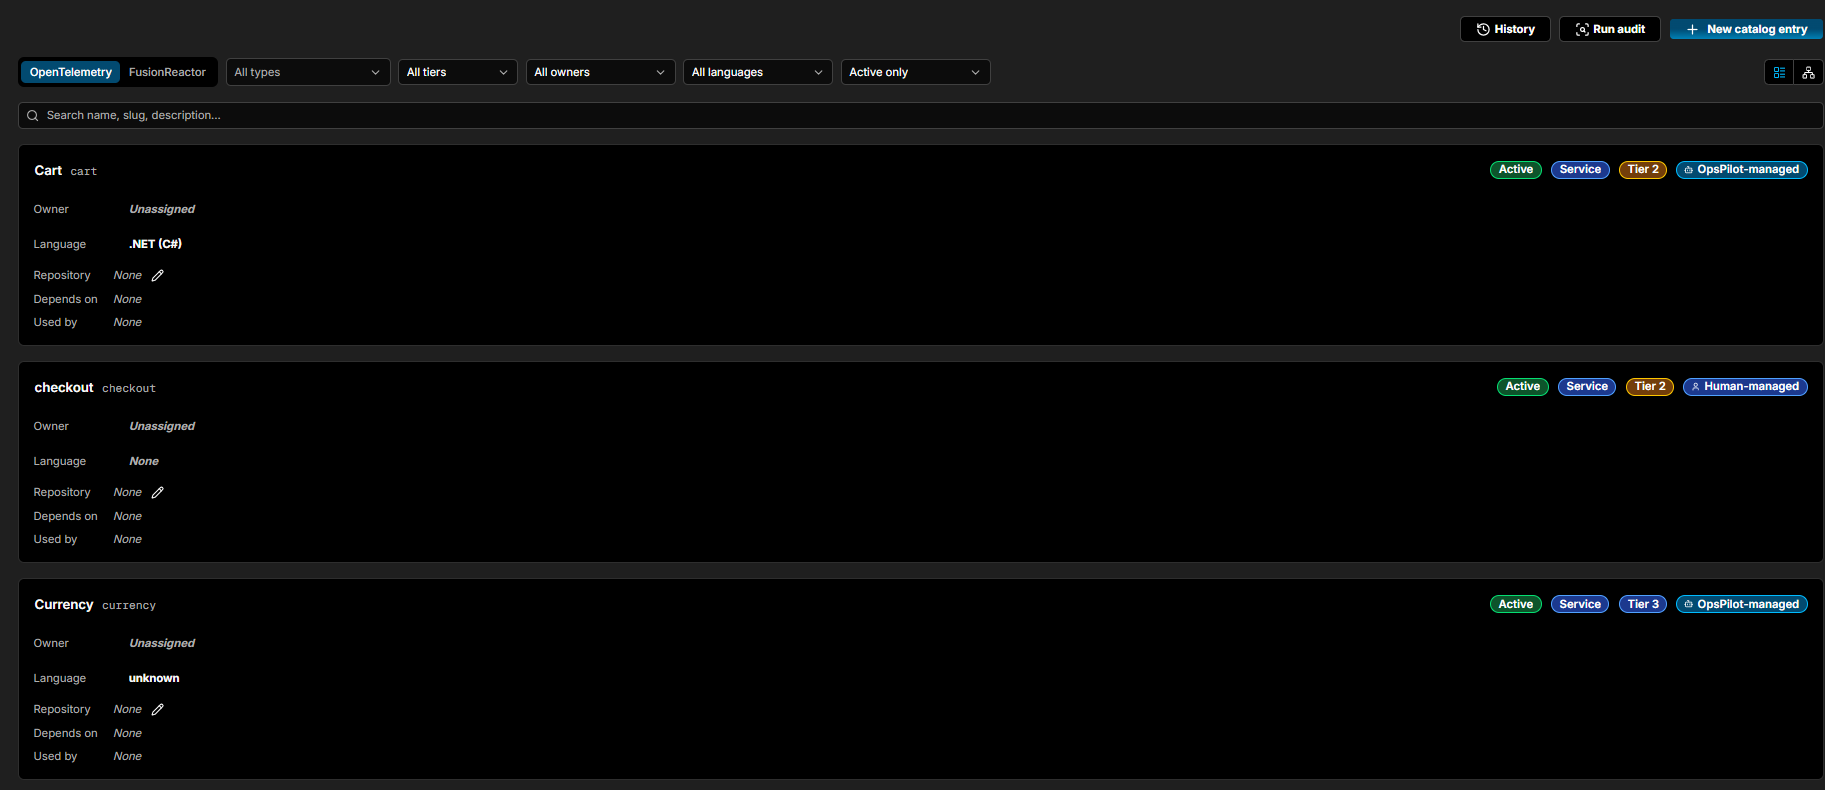
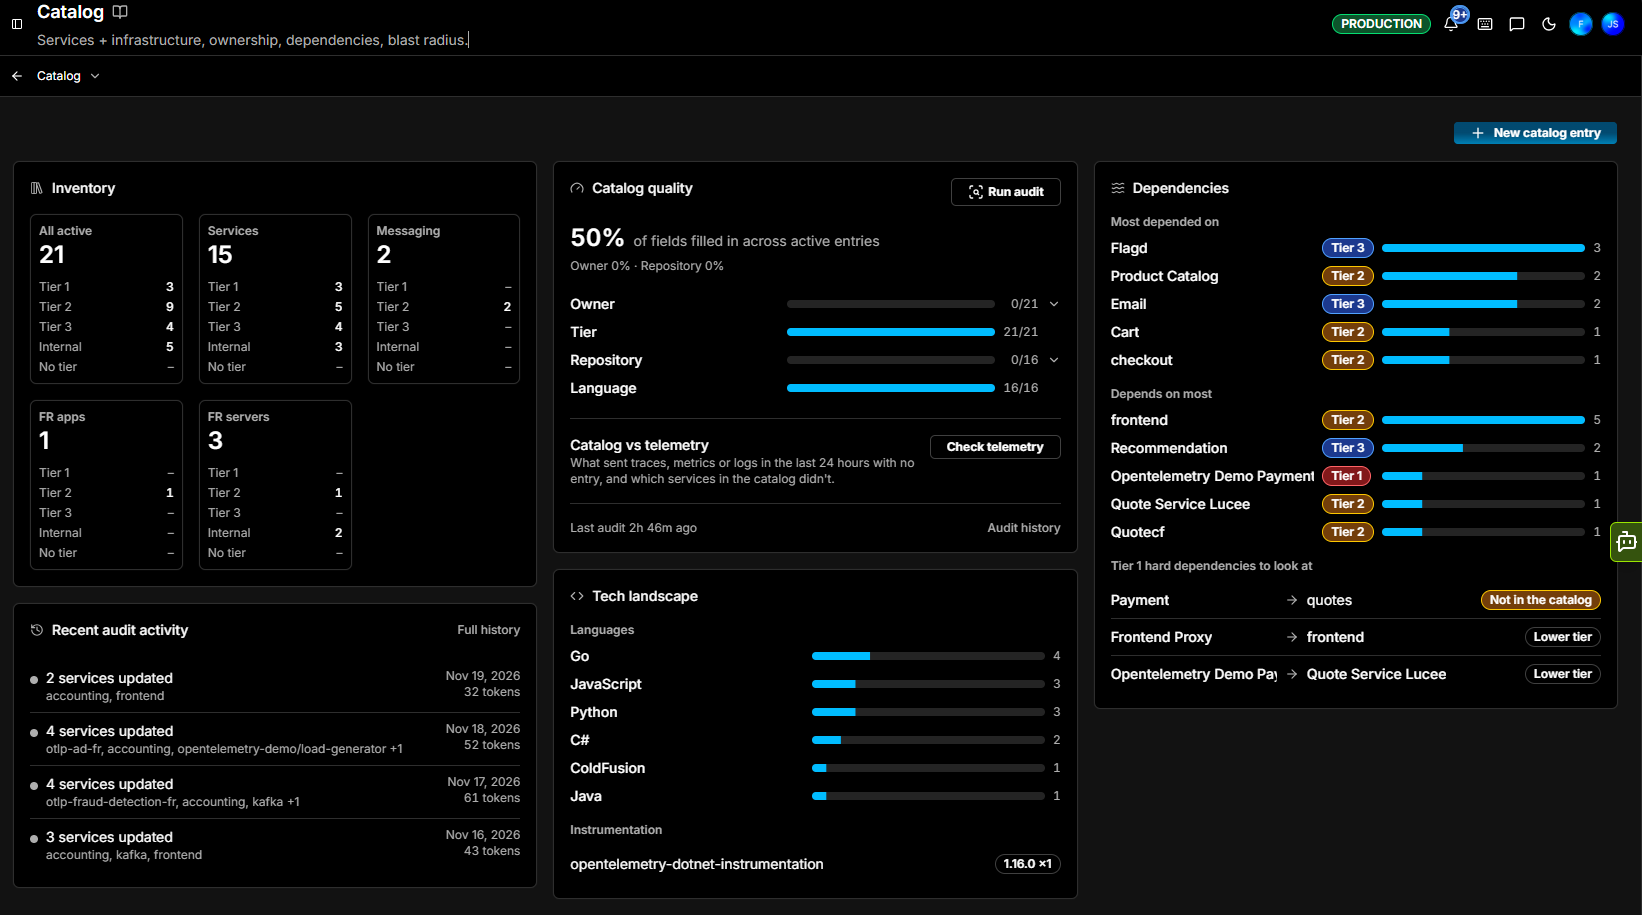
Catalog overview reconcile (#79)
* Document the new Catalog overview dashboard

Add a Catalog overview section covering the Inventory, Catalog quality,
Dependencies, Recent audit activity, and Tech landscape panels, and swap
in the current overview screenshot.

* Split the Catalog docs to match the app nav

Map the single Catalog page to the app's Catalog nav: Catalog Overview,
Entries, and Audit history, promoted to a top-level CATALOG nav group.
Redirect the old catalog URL to Catalog Overview and repoint inbound
links.

* Reconcile the Entries list and Audit history pages

Describe the filterable Entries list with inline-editable cards, and flesh
out Audit history with the period summary (services audited, tokens,
confirmed vs proposed fields, stale aliases) and its Activity / Proposals
/ Being watched tabs.

* Correct the Audit history Proposals and Being watched tabs

* Bullet the Catalog Overview intro and add the Catalog quality panel to Overview

---------

Changed region(s): [[0.0, 0.0, 1.0, 0.9418], [0.3417, 0.9418, 0.6523, 1.0], [0.0, 0.8506, 0.1864, 0.9722]]

diff --git a/docs/Admin-and-data/Catalog/catalog-overview.md b/docs/Admin-and-data/Catalog/catalog-overview.md
@@ -1,0 +1,47 @@
+# Catalog Overview
+
+The Service Catalog is a persistent record of everything you run - your services and the infrastructure they depend on. Unlike the Services overview, which shows only what is currently sending telemetry, the catalog keeps every entry whether it is active or quiet.
+
+It gives each service an owner, a tier, and a home, and that shared record does the heavy lifting across OpsPilot:
+
+- **It grounds Coworker.** Investigating an alert or running a check, Coworker draws on catalog entries to know what a service does, who owns it, what it depends on, and how it has behaved before - so it spends fewer AI Tokens rediscovering what it could already know, and investigates better. The more complete your catalog, the more effective Coworker becomes.
+- **It drives incident response.** Affected services on an incident link straight to their catalog entries, runbooks surface on catalog matches, and Analytics shows which entries appear in incidents most often.
+- **It settles ownership.** When something breaks at 2am, the owner and tier are already recorded - nobody has to guess who to contact or how critical it is.
+
+The Catalog landing page is a dashboard that summarizes your catalog at a glance, with **+ New catalog entry** in the top right. Create and manage entries on the [Entries](entries.md) page.
+
+![!Screenshot](../../Coworker/catalog-overview.png)
+
+## Inventory
+
+**Inventory** breaks your active entries down by category - **All active**, **Services**, **Messaging**, **FR apps**, and **FR servers** - each showing a total and a split by **tier** (Tier 1, Tier 2, Tier 3, Internal, No tier).
+
+## Catalog quality
+
+**Catalog quality** scores how complete your catalog is - the percentage of fields filled across active entries - with a bar per key field (**Owner**, **Tier**, **Repository**, **Language**) showing how many entries have it.
+
+- **Run audit** re-runs discovery to create and refresh entries - see [Adding a catalog entry](entries.md#adding-a-catalog-entry).
+- **Catalog vs telemetry** (**Check telemetry**) compares what sent telemetry in the last 24 hours against what is cataloged - flagging services with no entry, and entries with no telemetry.
+
+It also shows when the **last audit** ran, with an **[Audit history](audit-history.md)** link.
+
+## Dependencies
+
+**Dependencies** ranks entries by how they connect, each row showing the entry's tier and a count:
+
+- **Most depended on** - the entries the most other services rely on
+- **Depends on most** - the entries that rely on the most others
+- **Tier 1 hard dependencies to look at** - risky dependencies for your critical services, flagged **Not in the catalog** or **Lower tier**
+
+## Recent audit activity
+
+**Recent audit activity** lists the latest audits - what was updated, when, and the **OpsPilot AI Token** cost - with a **[Full history](audit-history.md)** link.
+
+## Tech landscape
+
+**Tech landscape** summarizes the technology across your catalog: a breakdown of **Languages** (such as Go, JavaScript, Python), and the **Instrumentation** in use (such as `opentelemetry-dotnet-instrumentation`).
+
+---
+
+!!! question "Need more help?"
+    Contact support in the chat bubble and let us know how we can assist.

diff --git a/docs/Admin-and-data/Catalog/entries.md b/docs/Admin-and-data/Catalog/entries.md
@@ -1,12 +1,8 @@
-# Service Catalog
+# Entries
 
-The Service Catalog is a persistent record of everything you run - your services and the infrastructure they depend on. Unlike the Services overview, which only shows what is currently sending telemetry, the catalog tracks entries whether they are active or quiet. It gives every service an owner, a tier, and a home, so when something breaks at 2am, nobody has to guess who to contact or what is affected.
+Catalog entries are the records of your services and the infrastructure they depend on. Create, edit, and manage them here; for the at-a-glance dashboard, see [Catalog Overview](catalog-overview.md).
 
-The catalog is also the brain behind Coworker. When Coworker investigates an alert or runs a check, it draws on catalog entries to understand what a service does, who owns it, what it depends on, and what has happened to it before. That pre-loaded context means Coworker spends fewer AI Tokens rediscovering information it could already know - and produces better investigations as a result. The more complete your catalog, the more effective Coworker becomes.
-
-The catalog also powers incident response: affected services on an incident link directly to their catalog entries, runbooks surface based on catalog service matches, and Analytics surfaces which catalog entries appear most frequently in incidents.
-
-![!Screenshot](../../Coworker/catalog-overview.png)
+The **Entries** page lists every entry - filterable, and shown as a list or a dependency graph. Each is a card showing its name, slug, and badges - **status** (such as **Active**), **type** (such as **Service**), **tier**, and whether it is **Human-managed** or **OpsPilot-managed** - with its key fields (Owners, Language, Repository, Depends on, Used by, Aliases) editable inline.
 
 ## Adding a catalog entry
 
@@ -16,7 +12,7 @@ You can populate the catalog three ways:
 
     - Coworker **creates catalog entries** for services that aren't cataloged yet, and **refreshes the existing entries you select**.
     - A confirmation dialog (**Audit service catalog**) notes that it runs in the background and shows the estimated **OpsPilot AI Token** usage per service. Click **Audit everything** to run it, or **Cancel**.
-    - When it finishes, a green banner reports the result. Click **History** to open the audit history panel, which lists every audit this billing period - what each one audited or updated, when, and its **OpsPilot AI Token** cost - with each entry expandable for detail.
+    - When it finishes, a green banner reports the result. Click **History** to open the **[Audit history](audit-history.md)**.
 
     !!! info "Your initial catalog creation is included"
         Creating your catalog for the first time is part of getting you set up. OpsPilot covers the cost of the initial creation, so it does not use your AI Token allowance.

diff --git a/docs/Admin-and-data/Catalog/audit-history.md b/docs/Admin-and-data/Catalog/audit-history.md
@@ -1,0 +1,28 @@
+# Audit history
+
+The **Audit history** page shows what OpsPilot audited, suggested, and is still checking in the catalog this billing period - and what it cost. Open it from the [Catalog Overview](catalog-overview.md): the **Recent audit activity** panel's **Full history** link, or the **Audit history** link under **Catalog quality**.
+
+## This period
+
+A summary across the current billing period (with its date range) reports:
+
+- **Services audited** and the **tokens** they used.
+- How many entries were **updated** and the tokens that cost - flagged **not counted against the budget** where OpsPilot covers it (your included initial creation).
+- **Fields OpsPilot wrote** - a bar splitting the auto-written fields into **confirmed** and **still proposed**.
+- Any **aliases no longer seen in telemetry**, so you can spot entries to prune or refresh.
+
+!!! info "What audits cost"
+    Your first catalog creation is covered by OpsPilot and does not use your allowance. Audits you trigger afterwards use your [AI Token allowance](../../Data-insights/Features/OpsPilot/Coworker/usage.md#ai-token-allowance). See [Adding a catalog entry](entries.md#adding-a-catalog-entry) for running one.
+
+## Tabs
+
+| Tab | Shows |
+|---|---|
+| **Activity** | The audits run this period, newest first - what each one updated, when, and its **OpsPilot AI Token** cost |
+| **Proposals** | Field changes OpsPilot suggests but has not applied, grouped by entry (a running total, such as *13 on 9 entries*). Each names the field - **Operations**, **Dependencies**, **Identity**, or **Language** - and what to confirm, alongside the entry's tier badge |
+| **Being watched** | Dependencies and operations OpsPilot thinks may have gone - **maybe removed** or **maybe shifted**. Each row carries the signal (for example *0 traffic observed over current window*), a seen count, and the date it was last seen |
+
+---
+
+!!! question "Need more help?"
+    Contact support in the chat bubble and let us know how we can assist.

diff --git a/docs/Data-insights/Features/OpsPilot/Coworker/heartbeat.md b/docs/Data-insights/Features/OpsPilot/Coworker/heartbeat.md
@@ -2,7 +2,7 @@
 
 Heartbeat is Coworker's always-on health screen. It quietly watches each of your services against a set of health signals, and when something looks off it investigates on its own and tells you what it found - with no alert rules to write and no dashboards to monitor.
 
-Once your services are [cataloged](../../../../Admin-and-data/Catalog/catalog.md), Coworker automatically learns what "normal" looks like for each one - request rate, latency, error rate, saturation, and more. Heartbeat re-checks those signals every few minutes in the background. When a signal moves outside its normal range and stays there, Coworker opens an investigation, gathers the relevant metrics, logs, and traces, works out whether it's a genuine issue or just noise, and records what it found. You can watch this happen on the Coworker page in real time. Over time, Heartbeat learns to suppress signals that repeatedly produce false alarms, so it becomes quieter and more reliable.
+Once your services are [cataloged](../../../../Admin-and-data/Catalog/catalog-overview.md), Coworker automatically learns what "normal" looks like for each one - request rate, latency, error rate, saturation, and more. Heartbeat re-checks those signals every few minutes in the background. When a signal moves outside its normal range and stays there, Coworker opens an investigation, gathers the relevant metrics, logs, and traces, works out whether it's a genuine issue or just noise, and records what it found. You can watch this happen on the Coworker page in real time. Over time, Heartbeat learns to suppress signals that repeatedly produce false alarms, so it becomes quieter and more reliable.
 
 ![!Screenshot](../../../../Coworker/heartbeat.png)
 

diff --git a/docs/Data-insights/Features/overview.md b/docs/Data-insights/Features/overview.md
@@ -128,6 +128,12 @@ A **Live** panel that reads **All clear** when nothing is firing (for example *1
 
 Click **Alerts →** for the full [Alerting Status](/Data-insights/Features/New-alerting/status/) view.
 
+### Catalog quality
+
+A **Live** panel scoring how complete your catalog is - a **filled in** percentage across active entries, with a bar per key field (**Owner**, **Tier**, **Repository**, **Language**) showing how many entries have it (for example *Tier 21/21*). **Run audit** re-runs discovery to create and refresh entries, and **Catalog vs telemetry** (**Check telemetry**) compares what sent telemetry in the last 24 hours against what is cataloged. It also shows when the **last audit** ran, with an **Audit history** link.
+
+Click **Catalog quality →** for the full [Catalog Overview](../../Admin-and-data/Catalog/catalog-overview.md), or **Audit history** for the [Audit history](../../Admin-and-data/Catalog/audit-history.md) page.
+
 ### Service Anomaly Detection
 
 A **Live** panel for the detectors OpsPilot maintains for your services. It reads **All clear** when none are active (for example *30 of 36 detectors normal*), and otherwise lists the firing and **pending** anomalies - each with its detector, service, and how long it's been pending - above a breakdown by state (**pending**, **normal**, **no data**, **paused**).

diff --git a/docs/Data-insights/Features/Applications/info.md b/docs/Data-insights/Features/Applications/info.md
@@ -8,7 +8,7 @@ Navigate to **Applications** > **Info** from the left-hand sidebar, or open the 
 
 ## Catalog information
 
-When the selected application has a [Catalog](../../../Admin-and-data/Catalog/catalog.md) entry, Info shows what the catalog holds for it - its **owner**, **tier**, and **dependency** information.
+When the selected application has a [Catalog](../../../Admin-and-data/Catalog/catalog-overview.md) entry, Info shows what the catalog holds for it - its **owner**, **tier**, and **dependency** information.
 
 If the application is not yet catalogued, Info shows an empty state - *"This application has no catalog entry, so there is no owner, tier or dependency information for it"* - with an **Add to catalog** button to create one.
 

diff --git a/docs/Data-insights/Features/OpsPilot/Coworker/getting-started.md b/docs/Data-insights/Features/OpsPilot/Coworker/getting-started.md
@@ -35,7 +35,7 @@ If your services are already cataloged, this step shows what Heartbeat is alread
 
 If nothing is cataloged yet, choose how to proceed:
 
-- **Catalog my services** - discover your services from your telemetry and start health screening. It runs in the background, so you can carry on with setup and review what Coworker found on the [Catalog](../../../../Admin-and-data/Catalog/catalog.md) page.
+- **Catalog my services** - discover your services from your telemetry and start health screening. It runs in the background, so you can carry on with setup and review what Coworker found on the [Catalog](../../../../Admin-and-data/Catalog/catalog-overview.md) page.
 - **Skip for now** or **Skip** - move on without cataloging.
 
 ---

diff --git a/docs/Data-insights/Features/Services/info.md b/docs/Data-insights/Features/Services/info.md
@@ -2,7 +2,7 @@
 
 Catalog info: ownership, tier, dependencies, and blast radius.
 
-The **Info** tab surfaces the [Catalog](../../../Admin-and-data/Catalog/catalog.md) metadata for a service, so you can see who owns it, how critical it is, and what depends on it, all without leaving the service view.
+The **Info** tab surfaces the [Catalog](../../../Admin-and-data/Catalog/catalog-overview.md) metadata for a service, so you can see who owns it, how critical it is, and what depends on it, all without leaving the service view.
 
 Use the **Catalog** dropdown to select a catalog, then choose a service to view its catalog info.
 

diff --git a/docs/Data-insights/Features/Applications/application-map.md b/docs/Data-insights/Features/Applications/application-map.md
@@ -46,7 +46,7 @@ Below the map, the **Servers** table lists the servers behind it, one row each:
 | **Throughput** | Requests per second |
 | **CPU** | CPU usage |
 | **Memory** | Memory usage |
-| **Catalog** | The server's catalog status - **Create** if it is not yet in the [Catalog](../../../Admin-and-data/Catalog/catalog.md), or its badges (for example **FR Server**, **Java**) if it is |
+| **Catalog** | The server's catalog status - **Create** if it is not yet in the [Catalog](../../../Admin-and-data/Catalog/catalog-overview.md), or its badges (for example **FR Server**, **Java**) if it is |
 
 ---
 

diff --git a/docs/Data-insights/Features/OpsPilot/Coworker/faq.md b/docs/Data-insights/Features/OpsPilot/Coworker/faq.md
@@ -251,7 +251,7 @@ AI-powered investigations consume compute and reasoning resources. OpsPilot AI T
 No - creating your catalog for the first time is funded by OpsPilot as part of getting you set up, so it does not use your AI Token allowance. Catalog audits you run manually afterwards, to add new services or refresh entries, do use your allowance.
 
 !!! info "Learn more"
-    [Service Catalog](../../../../Admin-and-data/Catalog/catalog.md)
+    [Service Catalog](../../../../Admin-and-data/Catalog/catalog-overview.md)
 
 ---
 

diff --git a/docs/Data-insights/Features/Applications/overview.md b/docs/Data-insights/Features/Applications/overview.md
@@ -21,7 +21,7 @@ The metric columns show a sparkline alongside the current value:
 | **Max Response** | The slowest response time recorded in the period |
 | **Throughput** | Requests per minute (c/m) |
 | **Errors/s** | Errors per second |
-| **Catalog** | **Create** adds the application to your [Catalog](../../../Admin-and-data/Catalog/catalog.md) |
+| **Catalog** | **Create** adds the application to your [Catalog](../../../Admin-and-data/Catalog/catalog-overview.md) |
 
 ---
 
